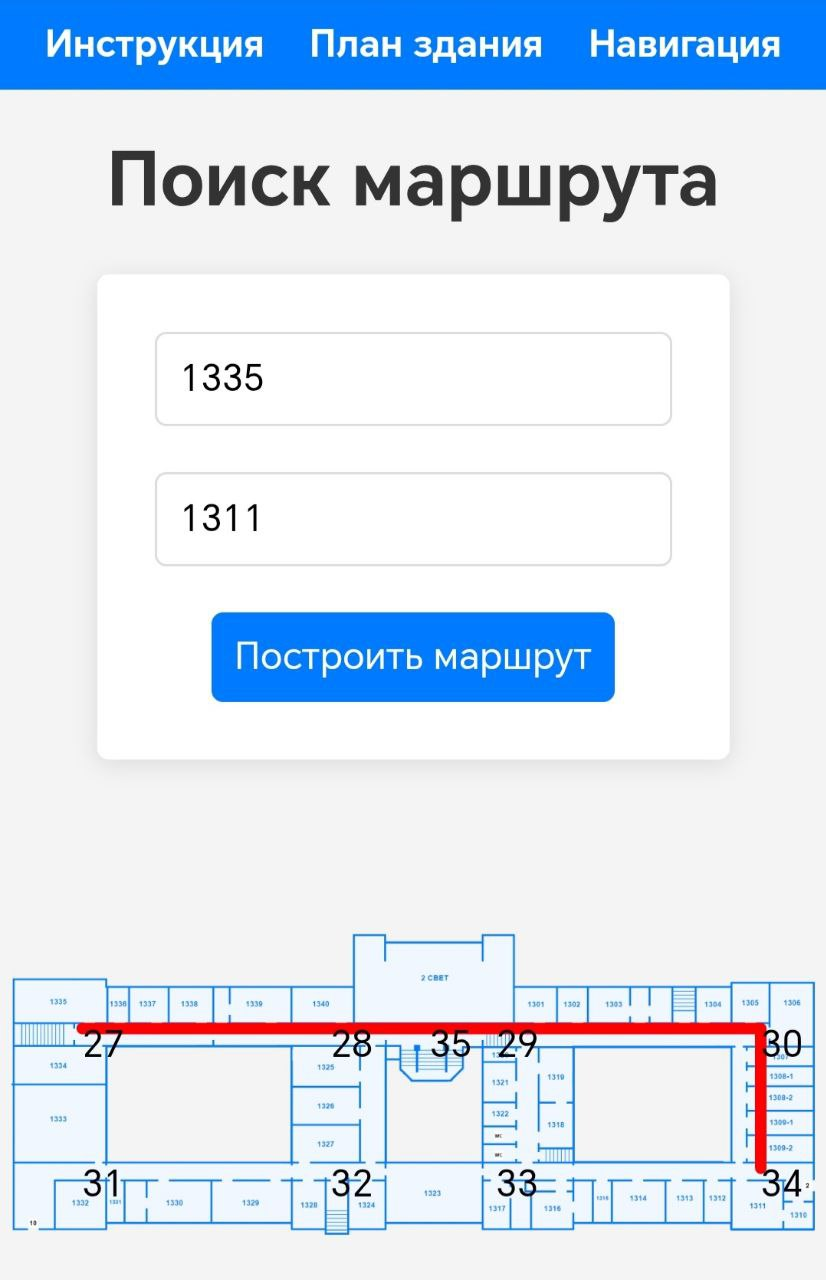
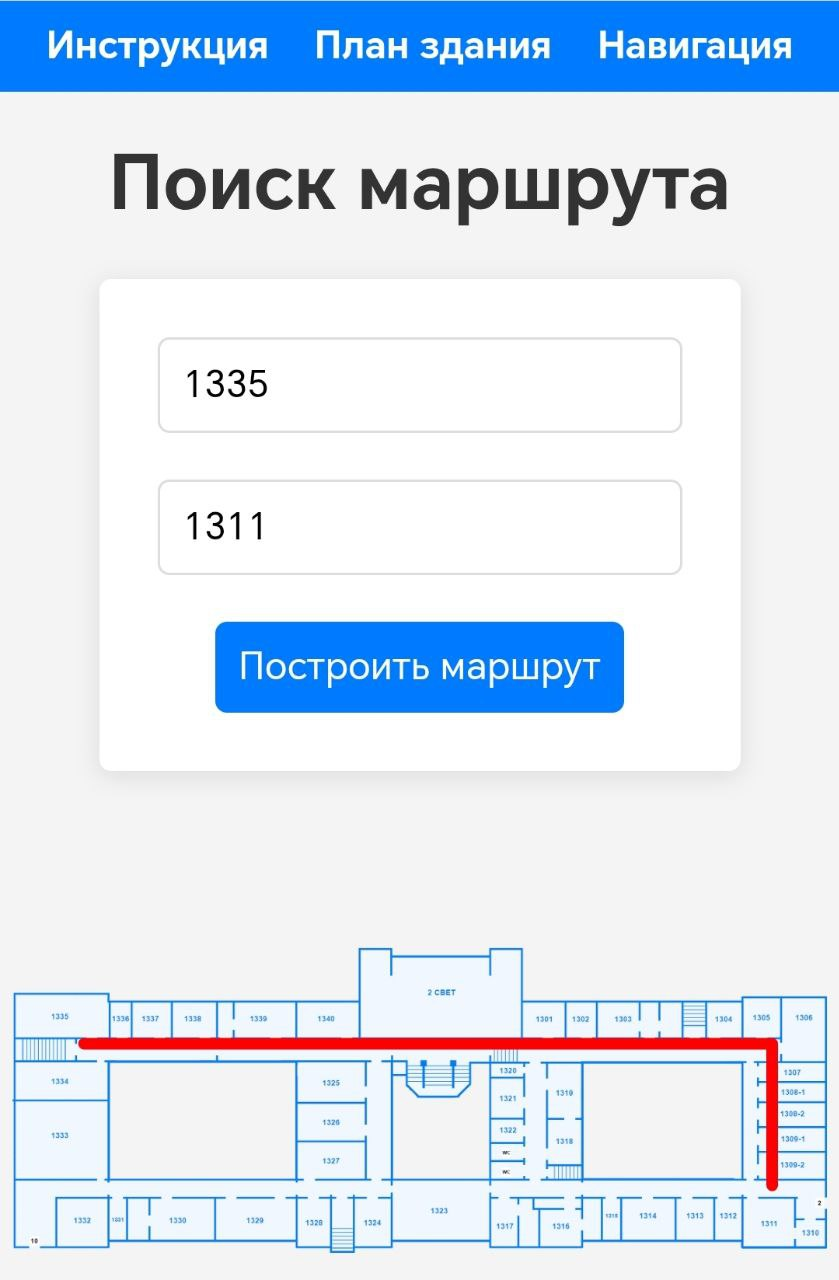
norm14

diff --git a/src/App.js b/src/App.js
@@ -1025,21 +1025,21 @@ const Maze = ({mazeImage, path, coordinates, floor, }) => {
                         listening={false}
                     />
                 )}
-                {/* Отображаем только ключи для текущего этажа */}
-                {coordinates && Object.entries(coordinates)
-                    .filter(([key]) => isKeyForCurrentFloor(key))
-                    .map(([key, coord]) => (
-                        <Text
-                            key={key}
-                            x={(coord.x / 100) * imageSize.width}
-                            y={(coord.y / 100) * imageSize.height}
-                            text={key}
-                            fontSize={16}
-                            fill="black"
-                            align="center"
-                            listening={false}
-                        />
-                    ))}
+                {/*/!* Отображаем только ключи для текущего этажа *!/*/}
+                {/*{coordinates && Object.entries(coordinates)*/}
+                {/*    .filter(([key]) => isKeyForCurrentFloor(key))*/}
+                {/*    .map(([key, coord]) => (*/}
+                {/*        <Text*/}
+                {/*            key={key}*/}
+                {/*            x={(coord.x / 100) * imageSize.width}*/}
+                {/*            y={(coord.y / 100) * imageSize.height}*/}
+                {/*            text={key}*/}
+                {/*            fontSize={16}*/}
+                {/*            fill="black"*/}
+                {/*            align="center"*/}
+                {/*            listening={false}*/}
+                {/*        />*/}
+                {/*    ))}*/}
             </Layer>
         </Stage>
     );
